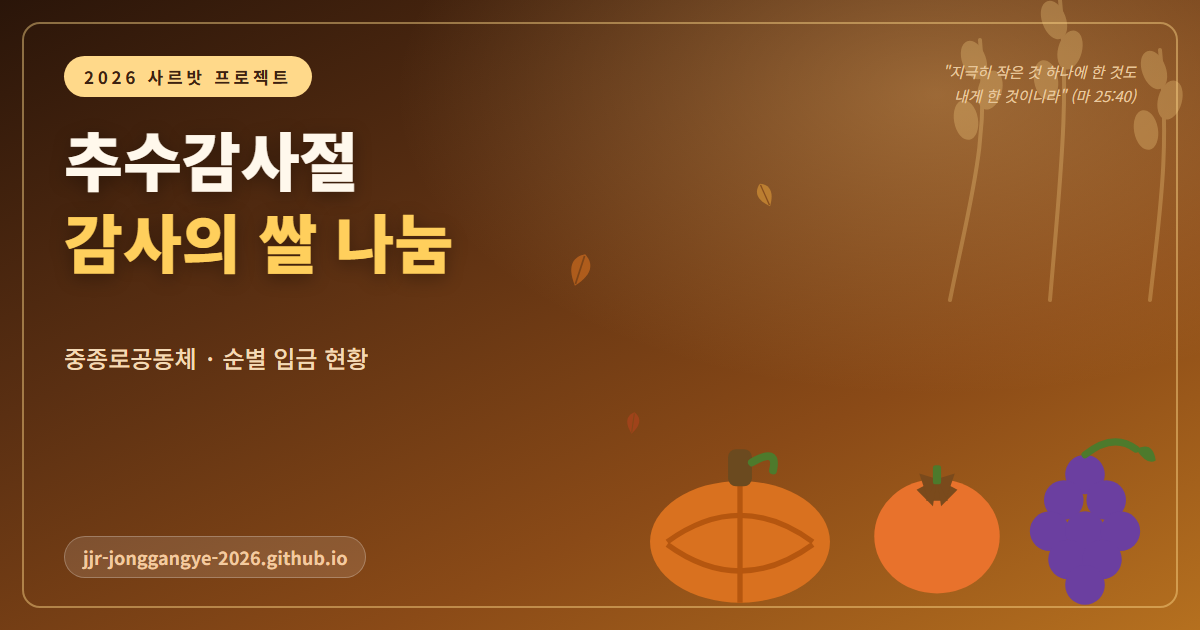
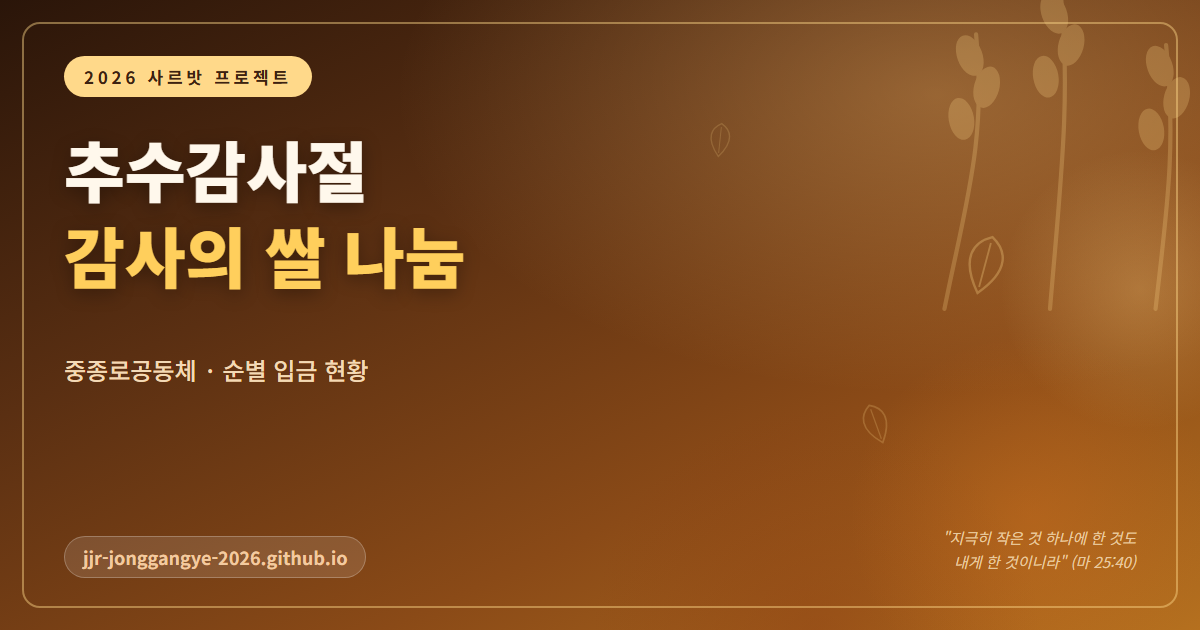
썸네일에서 저품질 과일 일러스트 제거하고 가을빛 분위기로 재제작, 입금 표식을 체크 마크로 교체하고 표 여백을 줄여 모바일 가로 스크롤 없이 보이도록 개선

diff --git a/sarabat-og-source.html b/sarabat-og-source.html
@@ -11,7 +11,10 @@
     font-family:'Noto Sans KR', sans-serif;
     position:relative;
     background:
-      radial-gradient(ellipse 900px 500px at 78% 15%, rgba(255,199,120,0.35) 0%, rgba(255,199,120,0) 60%),
+      radial-gradient(circle 260px at 86% 82%, rgba(217,113,31,0.32), transparent 70%),
+      radial-gradient(circle 200px at 95% 46%, rgba(255,217,138,0.26), transparent 70%),
+      radial-gradient(circle 320px at 68% 100%, rgba(139,58,18,0.38), transparent 70%),
+      radial-gradient(ellipse 900px 500px at 78% 15%, rgba(255,199,120,0.32) 0%, rgba(255,199,120,0) 60%),
       linear-gradient(155deg, #2a1509 0%, #5a2f12 35%, #8a4a17 68%, #b5701f 100%);
   }
   .frame {
@@ -26,13 +29,13 @@
     padding:8px 20px; border-radius:30px;
   }
   .title {
-    position:absolute; top:118px; left:64px;
-    font-size:64px; font-weight:900; color:#fff8ec;
-    line-height:1.28; text-shadow: 0 4px 18px rgba(0,0,0,0.35);
+    position:absolute; top:126px; left:64px;
+    font-size:66px; font-weight:900; color:#fff8ec;
+    line-height:1.3; text-shadow: 0 4px 18px rgba(0,0,0,0.35);
   }
   .title b { color:#ffcf5c; }
   .subtitle {
-    position:absolute; top:340px; left:64px;
+    position:absolute; top:352px; left:64px;
     font-size:24px; font-weight:500; color:#f3d9b6;
   }
   .footer-tag {
@@ -42,7 +45,7 @@
     padding:7px 18px; border-radius:24px;
   }
   .verse {
-    position:absolute; top:60px; right:64px;
+    position:absolute; bottom:56px; right:64px;
     font-size:15px; color:#e8c9a0; font-style:italic; text-align:right;
     max-width:320px; line-height:1.6;
   }
@@ -53,8 +56,8 @@
 
 <div class="frame"></div>
 
-<!-- 벼 이삭 (배경 우상단) -->
-<svg width="360" height="360" viewBox="0 0 360 360" style="top:-40px; right:-30px; opacity:0.28;">
+<!-- 벼 이삭 라인아트 (우상단 배경) -->
+<svg width="380" height="380" viewBox="0 0 360 360" style="top:-50px; right:-40px; opacity:0.24;">
   <g stroke="#ffd98a" stroke-width="4" stroke-linecap="round" fill="none">
     <path d="M80 340 C 100 240, 120 180, 110 80" />
     <path d="M180 340 C 190 220, 200 140, 190 40" />
@@ -73,58 +76,18 @@
   </g>
 </svg>
 
-<!-- 호박 -->
-<svg width="200" height="172" viewBox="0 0 150 130" style="bottom:22px; left:640px;">
-  <ellipse cx="75" cy="80" rx="68" ry="46" fill="#d9711f"/>
-  <path d="M20 80 Q75 40 130 80" stroke="#b5560f" stroke-width="4" fill="none"/>
-  <path d="M20 82 Q75 122 130 82" stroke="#b5560f" stroke-width="4" fill="none"/>
-  <path d="M75 34 Q75 80 75 126" stroke="#b5560f" stroke-width="4" fill="none"/>
-  <rect x="66" y="10" width="18" height="28" rx="6" fill="#6b4a1f"/>
-  <path d="M84 20 Q104 8 100 26" stroke="#4d7a2c" stroke-width="6" fill="none" stroke-linecap="round"/>
+<!-- 낙엽 라인아트 (얇은 윤곽선만, 은은하게) -->
+<svg width="70" height="70" viewBox="0 0 46 46" style="top:230px; right:180px; opacity:0.30; transform:rotate(15deg);">
+  <path d="M23 4 C34 10 40 22 23 42 C6 22 12 10 23 4Z" fill="none" stroke="#ffd98a" stroke-width="1.6"/>
+  <path d="M23 8 L23 38" stroke="#ffd98a" stroke-width="1.2"/>
 </svg>
-
-<!-- 감 -->
-<svg width="150" height="164" viewBox="0 0 110 120" style="bottom:20px; left:862px;">
-  <ellipse cx="55" cy="66" rx="46" ry="42" fill="#e8722c"/>
-  <g fill="#7a4a1c">
-    <path d="M55 24 L63 40 L47 40 Z"/>
-    <path d="M55 24 L70 32 L58 44 Z"/>
-    <path d="M55 24 L40 32 L52 44 Z"/>
-    <path d="M55 24 L68 20 L62 38 Z"/>
-    <path d="M55 24 L42 20 L48 38 Z"/>
-  </g>
-  <rect x="52" y="14" width="6" height="14" rx="2" fill="#4d7a2c"/>
+<svg width="48" height="48" viewBox="0 0 46 46" style="top:400px; right:300px; opacity:0.22; transform:rotate(-20deg);">
+  <path d="M23 4 C34 10 40 22 23 42 C6 22 12 10 23 4Z" fill="none" stroke="#ffd98a" stroke-width="1.6"/>
+  <path d="M23 8 L23 38" stroke="#ffd98a" stroke-width="1.2"/>
 </svg>
-
-<!-- 포도 -->
-<svg width="170" height="198" viewBox="0 0 120 140" style="bottom:14px; left:1000px;">
-  <g fill="#6b3fa0">
-    <circle cx="60" cy="40" r="14"/>
-    <circle cx="45" cy="58" r="14"/>
-    <circle cx="75" cy="58" r="14"/>
-    <circle cx="35" cy="80" r="14"/>
-    <circle cx="60" cy="80" r="14"/>
-    <circle cx="85" cy="80" r="14"/>
-    <circle cx="48" cy="100" r="14"/>
-    <circle cx="72" cy="100" r="14"/>
-    <circle cx="60" cy="118" r="14"/>
-  </g>
-  <path d="M60 26 Q80 10 96 22" stroke="#4d7a2c" stroke-width="5" fill="none" stroke-linecap="round"/>
-  <path d="M96 22 Q108 16 110 30 Q104 34 96 22" fill="#4d7a2c"/>
-</svg>
-
-<!-- 낙엽 장식 -->
-<svg width="40" height="40" viewBox="0 0 46 46" style="top:250px; left:560px; opacity:0.6; transform:rotate(18deg);">
-  <path d="M23 4 C34 10 40 22 23 42 C6 22 12 10 23 4Z" fill="#d9711f"/>
-  <path d="M23 6 L23 40" stroke="#8a4a17" stroke-width="2"/>
-</svg>
-<svg width="30" height="30" viewBox="0 0 46 46" style="top:180px; right:420px; opacity:0.55; transform:rotate(-24deg);">
-  <path d="M23 4 C34 10 40 22 23 42 C6 22 12 10 23 4Z" fill="#e8a23a"/>
-  <path d="M23 6 L23 40" stroke="#8a4a17" stroke-width="2"/>
-</svg>
-<svg width="26" height="26" viewBox="0 0 46 46" style="top:410px; left:620px; opacity:0.5; transform:rotate(8deg);">
-  <path d="M23 4 C34 10 40 22 23 42 C6 22 12 10 23 4Z" fill="#c0431f"/>
-  <path d="M23 6 L23 40" stroke="#8a4a17" stroke-width="2"/>
+<svg width="40" height="40" viewBox="0 0 46 46" style="top:120px; right:460px; opacity:0.18; transform:rotate(6deg);">
+  <path d="M23 4 C34 10 40 22 23 42 C6 22 12 10 23 4Z" fill="none" stroke="#ffd98a" stroke-width="1.6"/>
+  <path d="M23 8 L23 38" stroke="#ffd98a" stroke-width="1.2"/>
 </svg>
 
 <div class="pill">2026 사르밧 프로젝트</div>

diff --git a/sarabat.html b/sarabat.html
@@ -177,10 +177,10 @@
     .sub-header.love-sub  { background: #fce7f3; color: #9d174d; border-left: 4px solid #be185d; }
     .sub-header .leader-tag { font-size: 11px; font-weight: 500; color: #666; }
 
-    table { width: 100%; border-collapse: collapse; min-width: 560px; }
+    table { width: 100%; border-collapse: collapse; table-layout: fixed; }
     thead tr { background: #f9fafb; }
     th {
-      padding: 7px 10px;
+      padding: 7px 6px;
       font-size: 11px;
       font-weight: 700;
       color: #888;
@@ -188,21 +188,36 @@
       border-bottom: 1px solid #e5e7eb;
       white-space: nowrap;
     }
-    th:nth-child(1) { width: 40px; text-align: center; }
+    th:nth-child(1) { width: 26px; text-align: center; }
+    th:nth-child(4) { width: 40px; text-align: center; }
     td {
-      padding: 7px 10px;
+      padding: 7px 6px;
       font-size: 12px;
       border-bottom: 1px solid #f3f4f6;
       vertical-align: middle;
       white-space: nowrap;
+      overflow: hidden;
+      text-overflow: ellipsis;
     }
     tr:last-child td { border-bottom: none; }
     td:nth-child(1) { text-align: center; font-weight: 700; color: #aaa; }
     td.leader { font-weight: 700; color: #1e40af; }
-    td.tag { color: #6b3a1e; font-family: 'Courier New', monospace; font-weight: 700; }
+    td.tag { color: #6b3a1e; font-family: 'Courier New', monospace; font-weight: 700; font-size: 11px; }
 
     td.status-cell { text-align: center; }
-    .rice-icon { display: inline-block; vertical-align: middle; }
+    .paid-mark {
+      display: inline-flex; align-items: center; justify-content: center;
+      width: 18px; height: 18px; border-radius: 50%;
+      background: #16a34a; color: #fff; font-size: 12px; font-weight: 900; line-height: 1;
+    }
+
+    @media (max-width: 600px) {
+      th, td { padding: 6px 4px; font-size: 11px; }
+      td.tag { font-size: 9.5px; }
+      th:nth-child(1) { width: 22px; }
+      th:nth-child(4) { width: 32px; }
+      .paid-mark { width: 16px; height: 16px; font-size: 10px; }
+    }
 
     footer {
       text-align: center;
@@ -353,20 +368,8 @@ function sunKey(subKey, no) { return subKey + '-' + no; }
 function depositTag(groupKey, no) { return '중종로' + groupKey + no; }
 function firstName(leader) { return leader.split(',')[0].trim(); }
 
-// 입금완료 시 표시하는 벼(익어서 고개 숙인 벼이삭) 아이콘. 미입금은 빈 칸.
-var RICE_ICON =
-  '<svg class="rice-icon" width="26" height="26" viewBox="0 0 40 40" role="img" aria-label="입금완료">' +
-    '<path d="M18 38 C18 24 18 16 24 11" stroke="#5a8f3c" stroke-width="2.6" fill="none" stroke-linecap="round"/>' +
-    '<path d="M18 36 L11 31" stroke="#5a8f3c" stroke-width="2" fill="none" stroke-linecap="round"/>' +
-    '<g fill="#d9a628">' +
-      '<ellipse cx="25" cy="9"  rx="2.6" ry="4.2" transform="rotate(-55 25 9)"/>' +
-      '<ellipse cx="28" cy="13" rx="2.6" ry="4.2" transform="rotate(-35 28 13)"/>' +
-      '<ellipse cx="29" cy="18" rx="2.6" ry="4.2" transform="rotate(-15 29 18)"/>' +
-      '<ellipse cx="29" cy="23" rx="2.6" ry="4.2" transform="rotate(5 29 23)"/>' +
-      '<ellipse cx="27" cy="27" rx="2.6" ry="4.2" transform="rotate(25 27 27)"/>' +
-      '<ellipse cx="24" cy="30" rx="2.6" ry="4.2" transform="rotate(45 24 30)"/>' +
-    '</g>' +
-  '</svg>';
+// 입금완료 시 표시하는 체크 표식. 미입금은 빈 칸.
+var PAID_MARK = '<span class="paid-mark" role="img" aria-label="입금완료">&#10003;</span>';
 
 // ── 렌더링 ──────────────────────────────────────
 function render(paidMap) {
@@ -416,7 +419,7 @@ function render(paidMap) {
             '<td>' + sun.no + '</td>' +
             '<td class="leader">' + firstName(sun.leader) + '</td>' +
             '<td class="tag">' + depositTag(group.key, sun.no) + '</td>' +
-            '<td class="status-cell">' + (paid ? RICE_ICON : '') + '</td>' +
+            '<td class="status-cell">' + (paid ? PAID_MARK : '') + '</td>' +
           '</tr>';
         }).join('') +
         '</tbody>';
